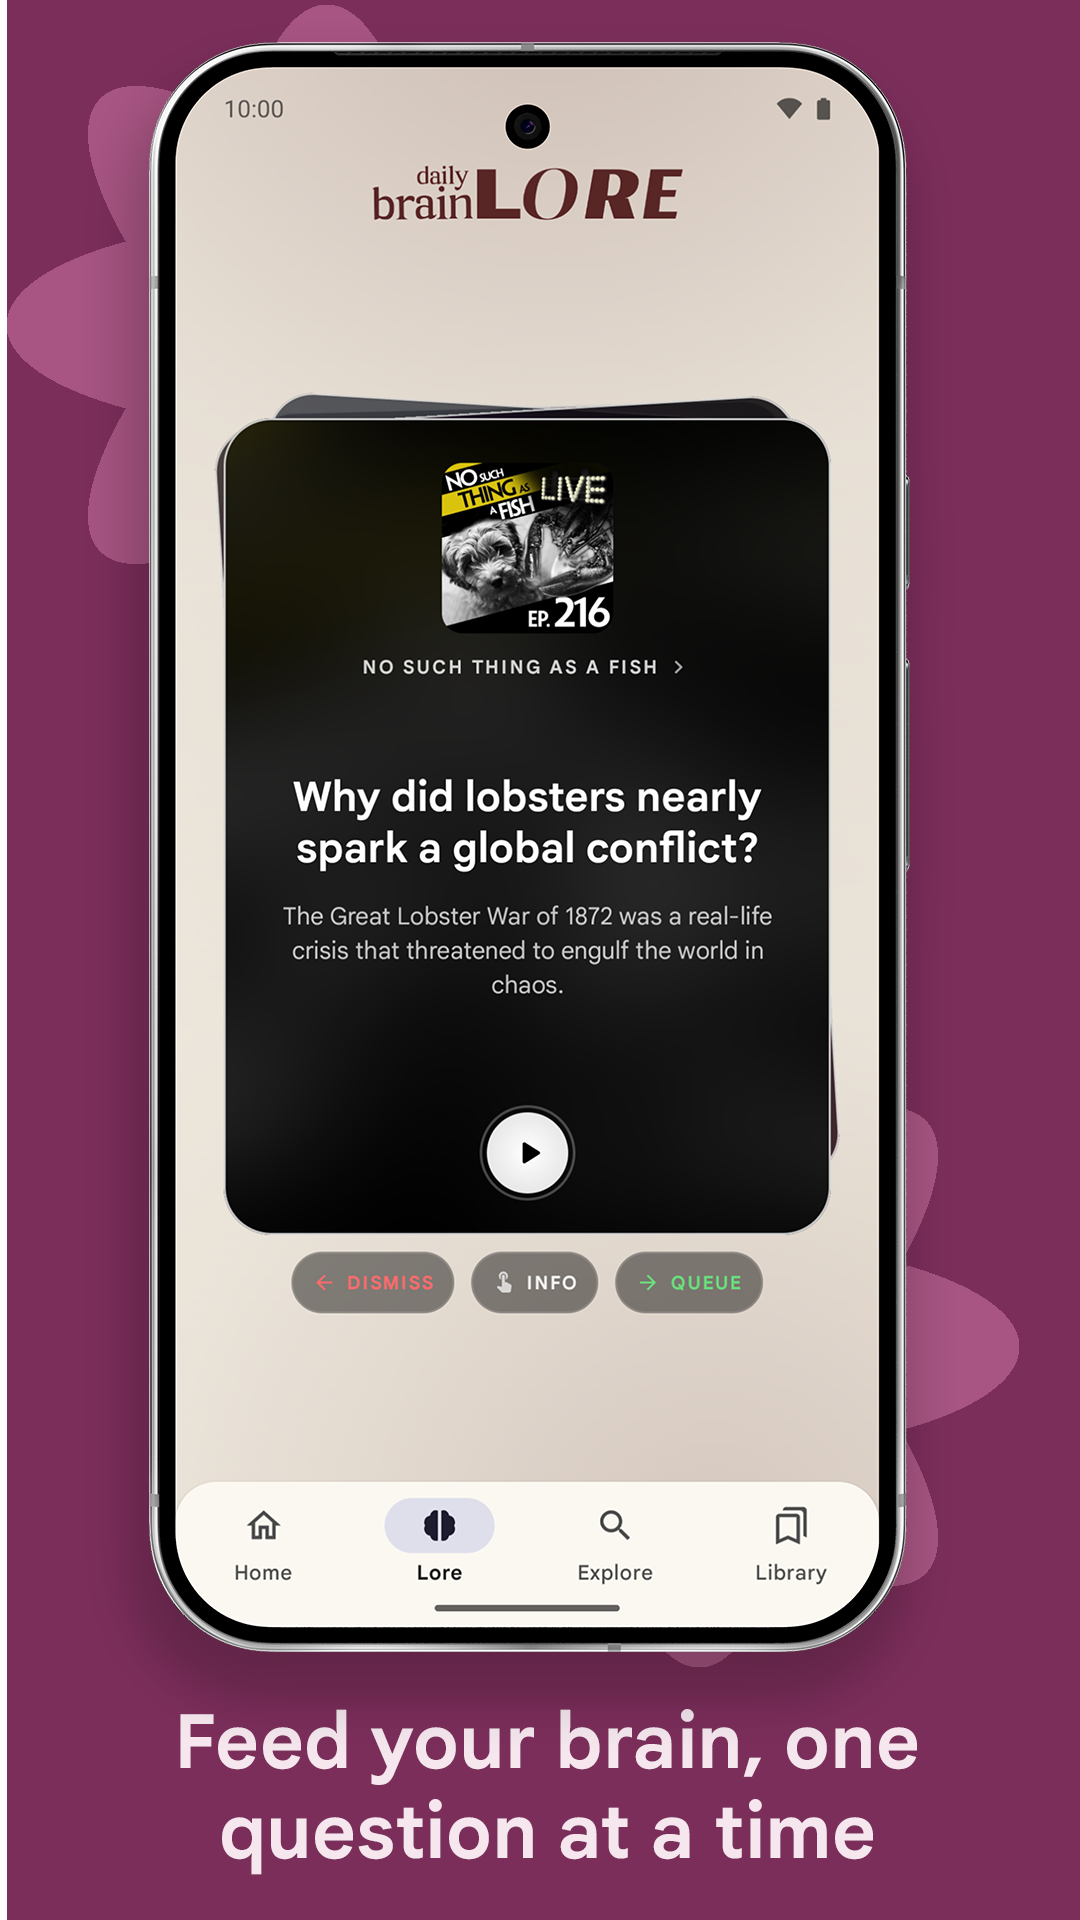
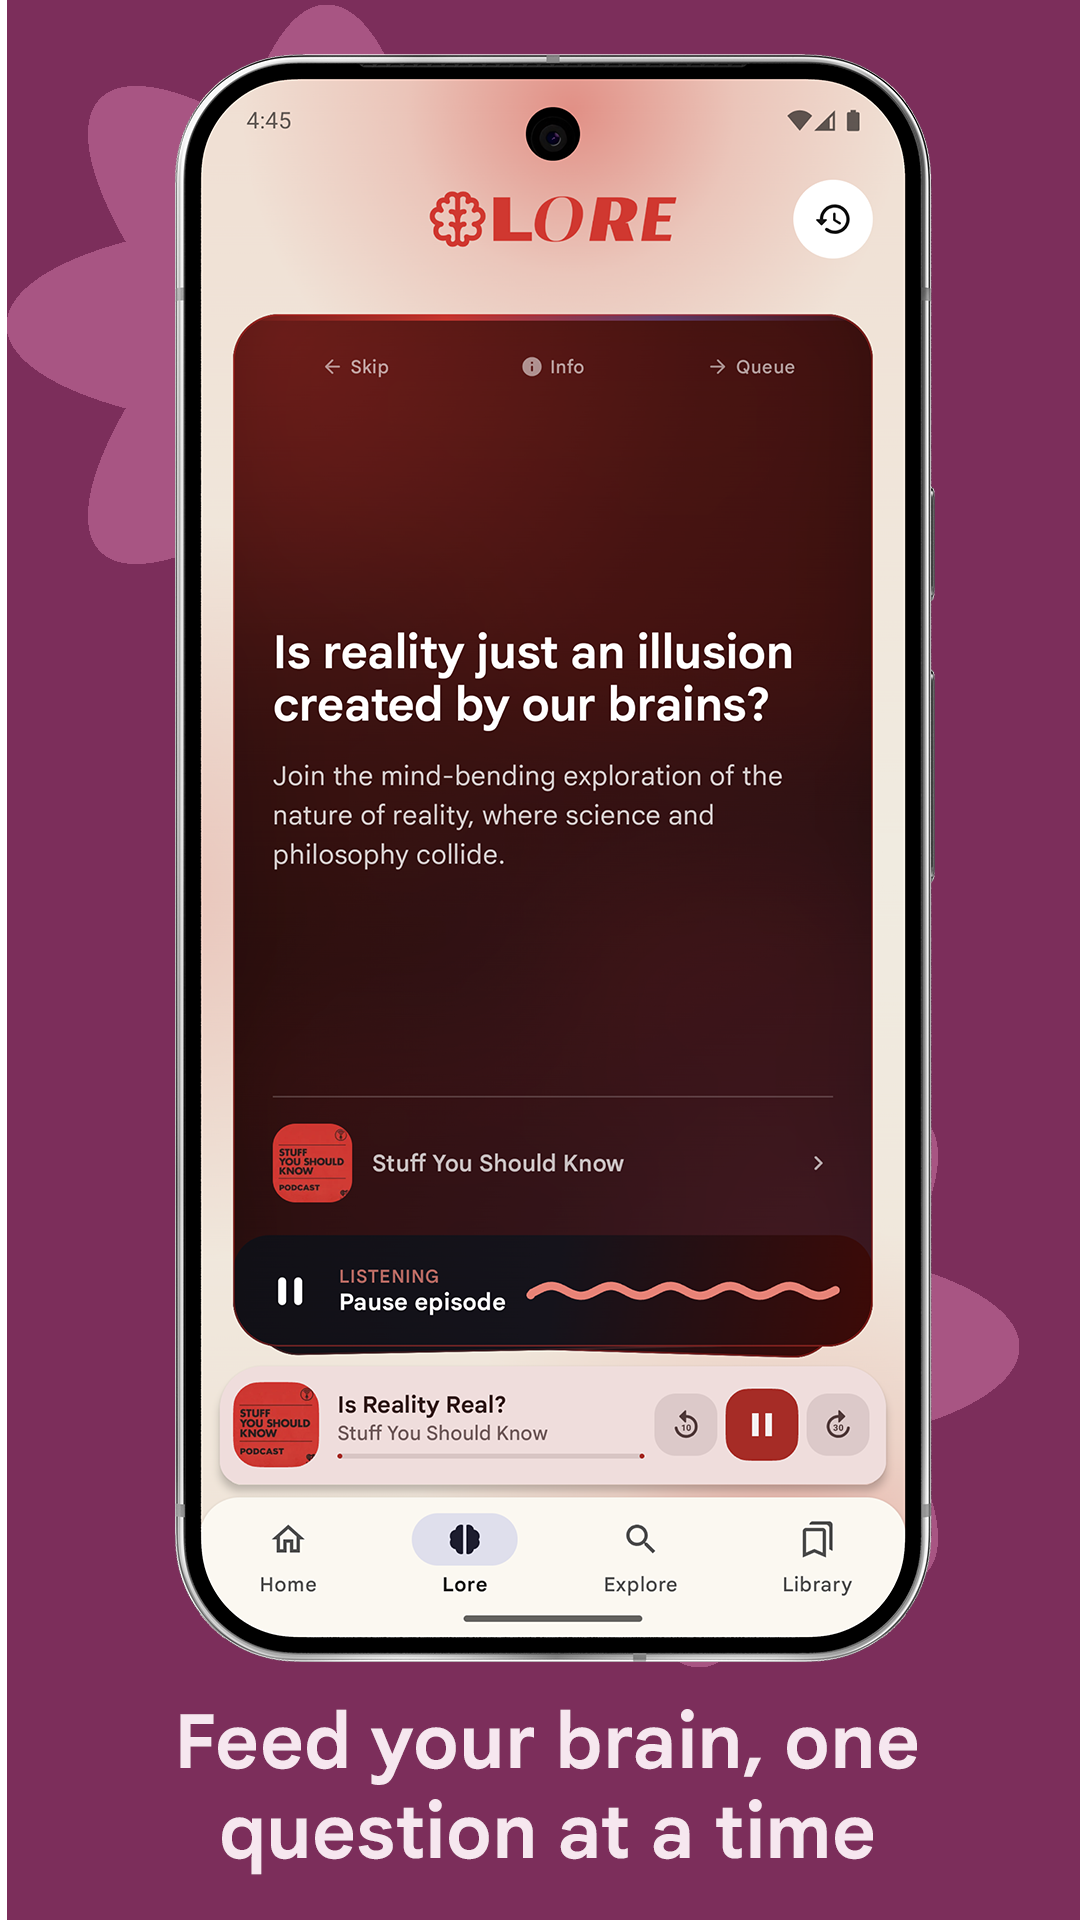
docs: replace lore and featured images with new versions

diff --git a/README.md b/README.md
@@ -1,6 +1,6 @@
 <div align="center" id="top">
 
-<img src="docs/images/featured_image.jpg" width="800" alt="boxlore Feature Banner"/>
+<img src="docs/images/featured_image.png" width="800" alt="boxlore Feature Banner"/>
 
 ### A podcast app that actually gets personal
 